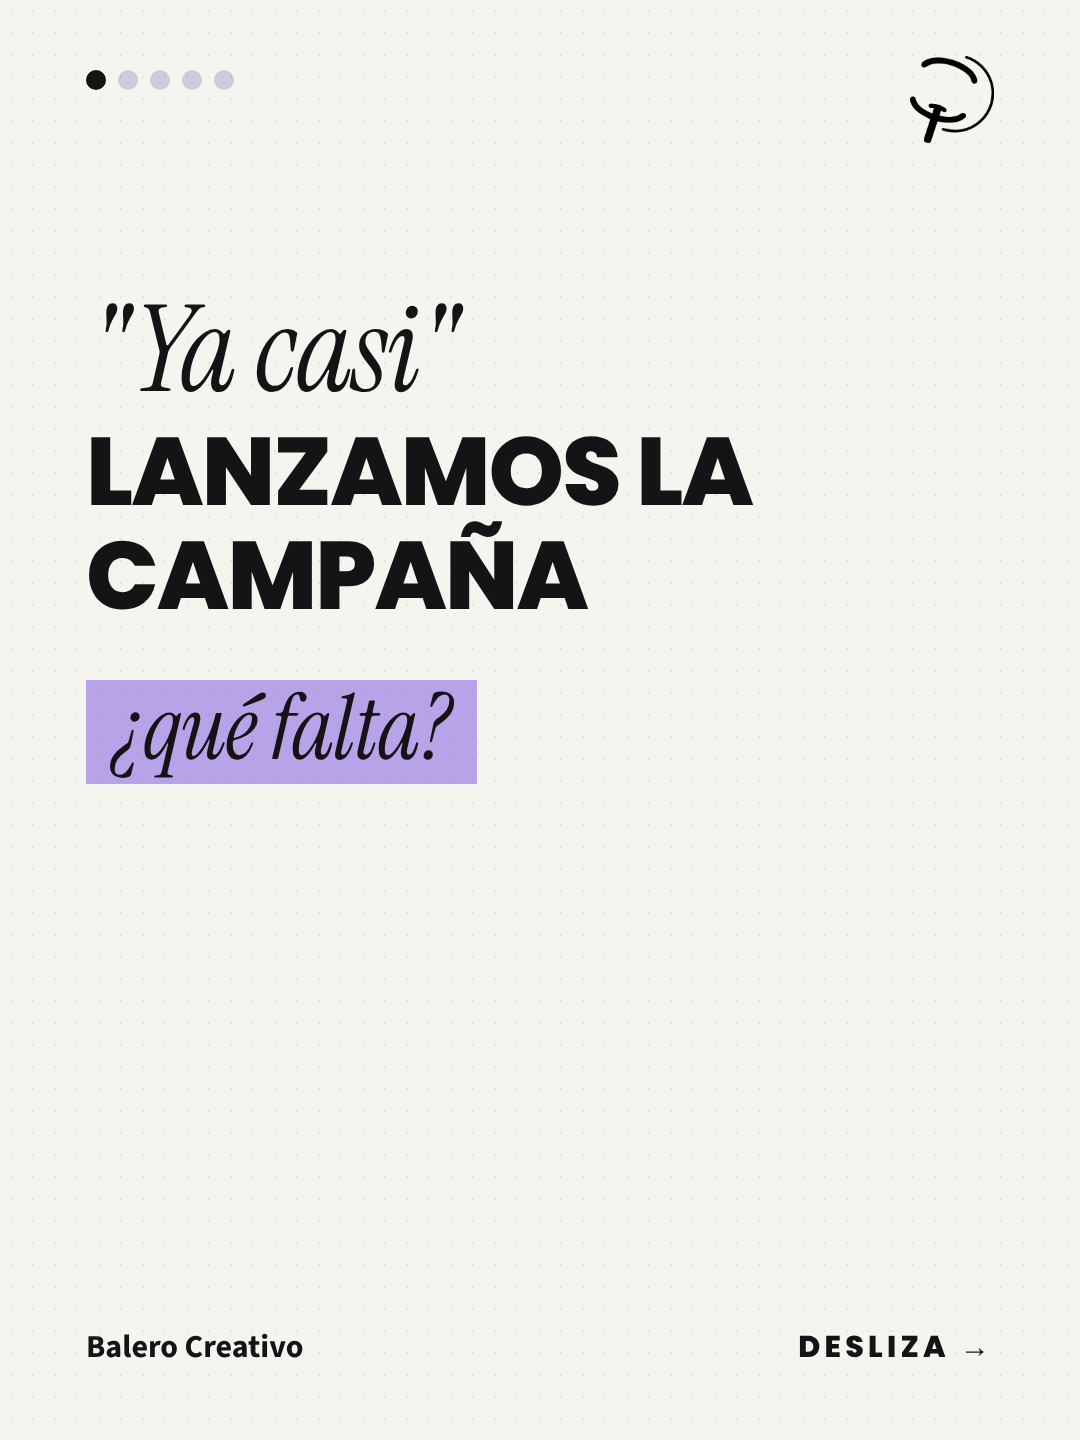
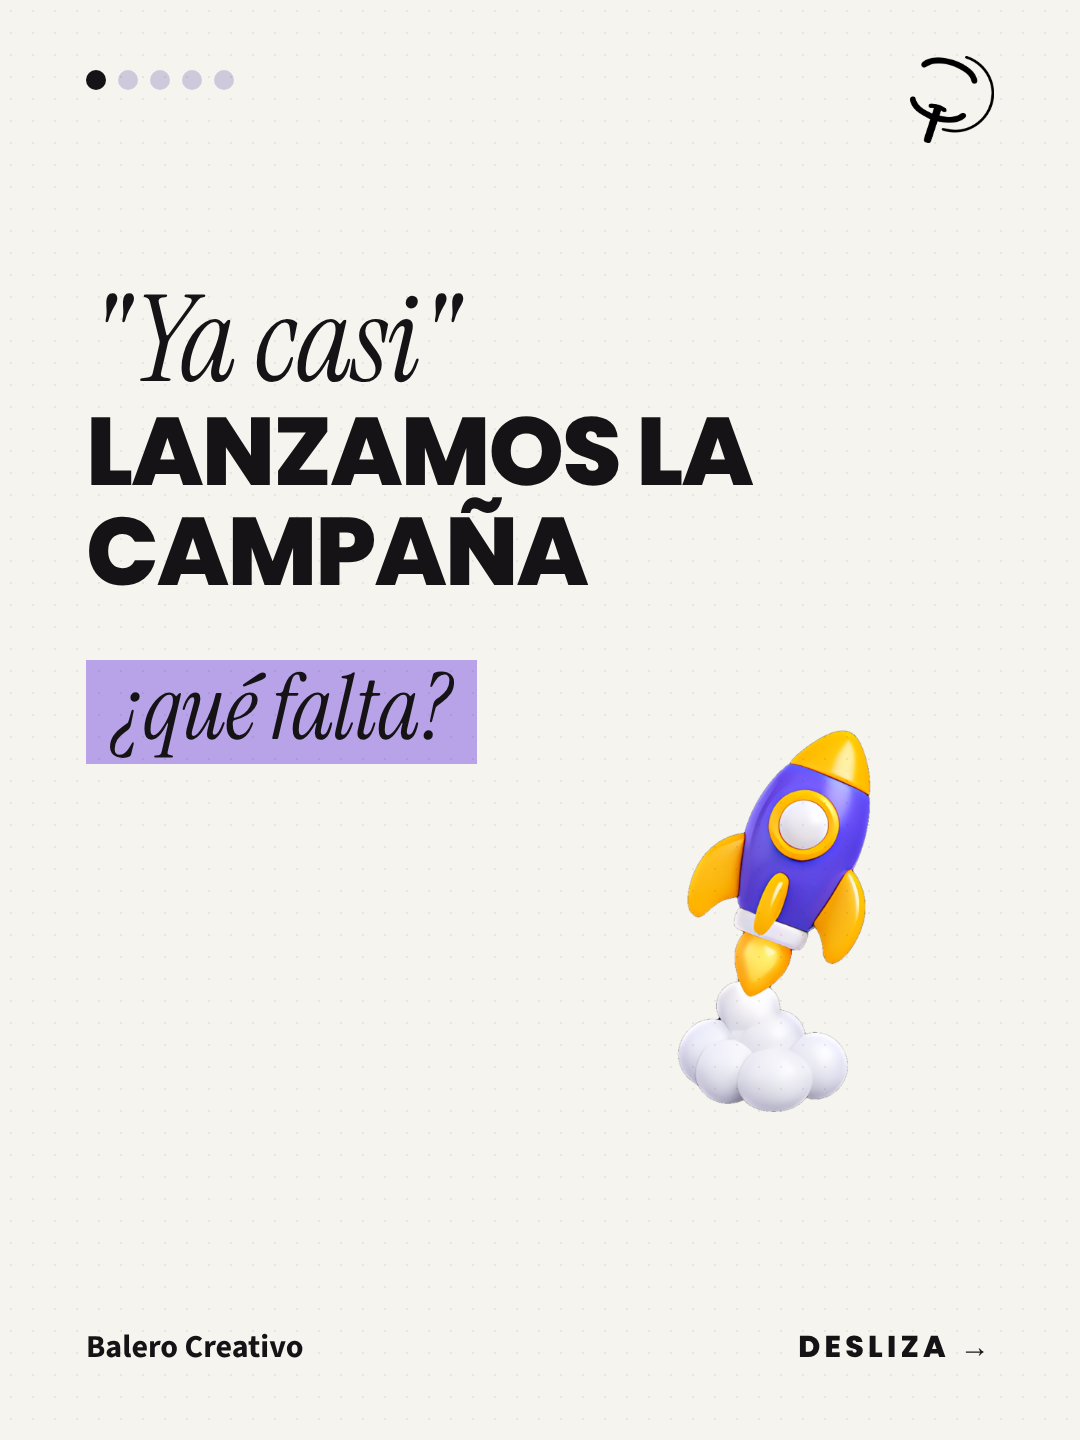
Carrusel de humor: ilustraciones 3D (cohete, engranes, monedas, cronómetro, escudo) sin encimados
Claude-Session: https://claude.ai/code/session_01Bq7ZC7FDz5LcdZBgNXTuBm

Changed region(s): [[0.0611, 0.1875, 0.7028, 0.5625], [0.6111, 0.5, 0.825, 0.7812]]

diff --git a/clientes/balero/diseno/2026-11/estilo-editorial/semana/humor.html b/clientes/balero/diseno/2026-11/estilo-editorial/semana/humor.html
@@ -60,4 +60,4 @@ body{background:#888}
 .meter{position:absolute;left:86px;right:86px;background:#fff;border:4px solid #151316;border-radius:26px;box-shadow:10px 12px 0 #151316;overflow:hidden}
 
 .bigy{position:absolute;left:86px;font:800 330px/.9 Poppins;background:#FFD23F;padding:10px 30px 24px;letter-spacing:-.04em}
-</style></head><body><div class="s" id="s1"><div class="dots"><i style="background:#151316"></i><i style="background:#cfc9dc"></i><i style="background:#cfc9dc"></i><i style="background:#cfc9dc"></i><i style="background:#cfc9dc"></i></div><img class="logo" src="/home/user/balero/.claude/skills/balero-imagenes/assets/logo-balero.png"><div class="serif" style="position:absolute;left:86px;top:290px;font-size:120px;line-height:1">"Ya casi"</div><div class="big" style="top:420px;font-size:96px;line-height:1.08">LANZAMOS LA CAMPAÑA</div><div class="serif" style="position:absolute;left:86px;top:680px;font-size:90px;line-height:1"><span class="hl">¿qué falta?</span></div><div class="foot"><span>Balero Creativo</span></div><div style="position:absolute;right:86px;bottom:70px;font:800 30px Poppins;letter-spacing:.14em">DESLIZA →</div></div><div class="s" id="s2"><div class="dots"><i style="background:#cfc9dc"></i><i style="background:#151316"></i><i style="background:#cfc9dc"></i><i style="background:#cfc9dc"></i><i style="background:#cfc9dc"></i></div><img class="logo" src="/home/user/balero/.claude/skills/balero-imagenes/assets/logo-balero.png"><div class="chip">FRASE 1</div><div class="t" style="top:290px;font-size:100px">"Solo falta<br>el píxel."</div><div class="body" style="top:560px;width:880px">Lo que suele faltar no es un anuncio más: es saber qué vas a medir.</div><div class="stat" style="display:flex;flex-direction:column;justify-content:center;left:86px;top:800px;width:908px;height:260px;background:#fff"><b style="font-size:96px">Píxel</b><span>todavía sin instalar</span></div><div class="foot"><span>Balero Creativo</span></div></div><div class="s" id="s3"><div class="dots"><i style="background:#cfc9dc"></i><i style="background:#cfc9dc"></i><i style="background:#151316"></i><i style="background:#cfc9dc"></i><i style="background:#cfc9dc"></i></div><img class="logo" src="/home/user/balero/.claude/skills/balero-imagenes/assets/logo-balero.png"><div class="chip">FRASE 2</div><div class="t" style="top:290px;font-size:96px">"Ponle más<br>presupuesto."</div><div class="body" style="top:560px;width:880px">Más dinero sin medir solo acelera el gasto.</div><div class="cmp bad" style="display:flex;align-items:center;top:800px;height:200px"><div class="m">✗</div><div><small>SIN MEDIR</small>Más dinero, mismas dudas</div></div><div class="cmp good" style="display:flex;align-items:center;top:1030px;height:200px"><div class="m">✓</div><div><small>MEDIDO</small>Sabes cuánto te queda por venta</div></div><div class="foot"><span>Balero Creativo</span></div></div><div class="s" id="s4"><div class="dots"><i style="background:#cfc9dc"></i><i style="background:#cfc9dc"></i><i style="background:#cfc9dc"></i><i style="background:#151316"></i><i style="background:#cfc9dc"></i></div><img class="logo" src="/home/user/balero/.claude/skills/balero-imagenes/assets/logo-balero.png"><div class="chip">FRASE 3</div><div class="t" style="top:290px;font-size:100px">"Mañana lo<br>revisamos."</div><div class="body" style="top:560px;width:880px">Mañana es lo mismo que hoy si no hay un número que revisar.</div><div class="stat" style="display:flex;flex-direction:column;justify-content:center;left:86px;top:800px;width:908px;height:260px;background:#fff"><b style="font-size:96px">Hoy</b><span>es el día de medir</span></div><div class="serif" style="position:absolute;left:86px;top:1150px;font-size:64px;line-height:1">Revisa antes de lanzar.</div><div class="foot"><span>Balero Creativo</span></div></div><div class="s" id="s5"><div class="dots"><i style="background:#cfc9dc"></i><i style="background:#cfc9dc"></i><i style="background:#cfc9dc"></i><i style="background:#cfc9dc"></i><i style="background:#151316"></i></div><img class="logo" src="/home/user/balero/.claude/skills/balero-imagenes/assets/logo-balero.png"><div class="serif" style="position:absolute;left:86px;top:280px;font-size:96px;line-height:1">Las campañas se</div><div class="big" style="top:400px;font-size:100px;line-height:1.08">MIDEN ANTES</div><div class="serif" style="position:absolute;left:86px;top:560px;font-size:96px;line-height:1"><span class="hl">de lanzarse.</span></div><div class="tape" style="top:800px;font-family:Poppins;font-weight:800;font-size:36px">Diagnóstico gratis de 15 minutos</div><div class="arrow" style="top:800px;transform:translateY(22px)">→</div><div class="body" style="top:1000px;width:880px">Escríbenos por mensaje directo.</div><div class="foot"><span>Balero Creativo</span></div></div></body></html>
+</style></head><body><div class="s" id="s1"><div class="dots"><i style="background:#151316"></i><i style="background:#cfc9dc"></i><i style="background:#cfc9dc"></i><i style="background:#cfc9dc"></i><i style="background:#cfc9dc"></i></div><img class="logo" src="/home/user/balero/.claude/skills/balero-imagenes/assets/logo-balero.png"><div class="serif" style="position:absolute;left:86px;top:280px;font-size:120px;line-height:1">"Ya casi"</div><div class="big" style="top:400px;font-size:96px;line-height:1.08">LANZAMOS LA</div><div class="big" style="top:500px;font-size:96px;line-height:1.08">CAMPAÑA</div><div class="serif" style="position:absolute;left:86px;top:660px;font-size:90px;line-height:1"><span class="hl">¿qué falta?</span></div><img src="/home/user/balero/.claude/skills/balero-imagenes/assets/ilustraciones-nuevas/cohete-cut.png" style="position:absolute;left:560px;top:700px;width:440px"><div class="foot"><span>Balero Creativo</span></div><div style="position:absolute;right:86px;bottom:70px;font:800 30px Poppins;letter-spacing:.14em">DESLIZA →</div></div><div class="s" id="s2"><div class="dots"><i style="background:#cfc9dc"></i><i style="background:#151316"></i><i style="background:#cfc9dc"></i><i style="background:#cfc9dc"></i><i style="background:#cfc9dc"></i></div><img class="logo" src="/home/user/balero/.claude/skills/balero-imagenes/assets/logo-balero.png"><div class="chip">FRASE 1</div><div class="t" style="top:290px;font-size:100px">"Solo falta<br>el píxel."</div><div class="body" style="top:560px;width:880px">Lo que suele faltar no es un anuncio más: es saber qué vas a medir.</div><img src="/home/user/balero/.claude/skills/balero-imagenes/assets/ilustraciones-nuevas/engranes-cut.png" style="position:absolute;left:430px;top:760px;width:520px"><div class="serif" style="position:absolute;left:86px;top:1220px;font-size:60px;line-height:1">Configúralo antes.</div><div class="foot"><span>Balero Creativo</span></div></div><div class="s" id="s3"><div class="dots"><i style="background:#cfc9dc"></i><i style="background:#cfc9dc"></i><i style="background:#151316"></i><i style="background:#cfc9dc"></i><i style="background:#cfc9dc"></i></div><img class="logo" src="/home/user/balero/.claude/skills/balero-imagenes/assets/logo-balero.png"><div class="chip">FRASE 2</div><div class="t" style="top:290px;font-size:96px">"Ponle más<br>presupuesto."</div><div class="body" style="top:560px;width:880px">Más dinero sin medir solo acelera el gasto.</div><img src="/home/user/balero/.claude/skills/balero-imagenes/assets/ilustraciones-nuevas/cobro-cut.png" style="position:absolute;left:806px;top:590px;width:170px"><div class="cmp bad" style="display:flex;align-items:center;top:800px;height:200px"><div class="m">✗</div><div><small>SIN MEDIR</small>Más dinero, mismas dudas</div></div><div class="cmp good" style="display:flex;align-items:center;top:1030px;height:200px"><div class="m">✓</div><div><small>MEDIDO</small>Sabes cuánto te queda por venta</div></div><div class="foot"><span>Balero Creativo</span></div></div><div class="s" id="s4"><div class="dots"><i style="background:#cfc9dc"></i><i style="background:#cfc9dc"></i><i style="background:#cfc9dc"></i><i style="background:#151316"></i><i style="background:#cfc9dc"></i></div><img class="logo" src="/home/user/balero/.claude/skills/balero-imagenes/assets/logo-balero.png"><div class="chip">FRASE 3</div><div class="t" style="top:290px;font-size:100px">"Mañana lo<br>revisamos."</div><div class="body" style="top:560px;width:880px">Mañana es lo mismo que hoy si no hay un número que revisar.</div><img src="/home/user/balero/.claude/skills/balero-imagenes/assets/ilustraciones-nuevas/cronometro-cut.png" style="position:absolute;left:470px;top:740px;width:400px"><div class="serif" style="position:absolute;left:86px;top:1220px;font-size:60px;line-height:1">Revisa antes de lanzar.</div><div class="foot"><span>Balero Creativo</span></div></div><div class="s" id="s5"><div class="dots"><i style="background:#cfc9dc"></i><i style="background:#cfc9dc"></i><i style="background:#cfc9dc"></i><i style="background:#cfc9dc"></i><i style="background:#151316"></i></div><img class="logo" src="/home/user/balero/.claude/skills/balero-imagenes/assets/logo-balero.png"><div class="serif" style="position:absolute;left:86px;top:230px;font-size:96px;line-height:1">Las campañas se</div><div class="big" style="top:350px;font-size:100px;line-height:1.08">MIDEN ANTES</div><div class="serif" style="position:absolute;left:86px;top:510px;font-size:96px;line-height:1"><span class="hl">de lanzarse.</span></div><div class="tape" style="top:740px;font-family:Poppins;font-weight:800;font-size:36px">Diagnóstico gratis de 15 minutos</div><div class="arrow" style="top:740px;transform:translateY(22px)">→</div><div class="body" style="top:930px;width:880px">Escríbenos por mensaje directo.</div><img src="/home/user/balero/.claude/skills/balero-imagenes/assets/ilustraciones-nuevas/escudo-cut.png" style="position:absolute;left:760px;top:930px;width:240px"><div class="foot"><span>Balero Creativo</span></div><div style="position:absolute;right:86px;bottom:70px;font:800 30px Poppins;letter-spacing:.14em">DESLIZA →</div></div></body></html>

diff --git a/clientes/balero/diseno/2026-11/semana-09/humor-ig/humor.html b/clientes/balero/diseno/2026-11/semana-09/humor-ig/humor.html
@@ -60,4 +60,4 @@ body{background:#888}
 .meter{position:absolute;left:86px;right:86px;background:#fff;border:4px solid #151316;border-radius:26px;box-shadow:10px 12px 0 #151316;overflow:hidden}
 
 .bigy{position:absolute;left:86px;font:800 330px/.9 Poppins;background:#FFD23F;padding:10px 30px 24px;letter-spacing:-.04em}
-</style></head><body><div class="s" id="s1"><div class="dots"><i style="background:#151316"></i><i style="background:#cfc9dc"></i><i style="background:#cfc9dc"></i><i style="background:#cfc9dc"></i><i style="background:#cfc9dc"></i></div><img class="logo" src="/home/user/balero/.claude/skills/balero-imagenes/assets/logo-balero.png"><div class="serif" style="position:absolute;left:86px;top:290px;font-size:120px;line-height:1">"Ya casi"</div><div class="big" style="top:420px;font-size:96px;line-height:1.08">LANZAMOS LA CAMPAÑA</div><div class="serif" style="position:absolute;left:86px;top:680px;font-size:90px;line-height:1"><span class="hl">¿qué falta?</span></div><div class="foot"><span>Balero Creativo</span></div><div style="position:absolute;right:86px;bottom:70px;font:800 30px Poppins;letter-spacing:.14em">DESLIZA →</div></div><div class="s" id="s2"><div class="dots"><i style="background:#cfc9dc"></i><i style="background:#151316"></i><i style="background:#cfc9dc"></i><i style="background:#cfc9dc"></i><i style="background:#cfc9dc"></i></div><img class="logo" src="/home/user/balero/.claude/skills/balero-imagenes/assets/logo-balero.png"><div class="chip">FRASE 1</div><div class="t" style="top:290px;font-size:100px">"Solo falta<br>el píxel."</div><div class="body" style="top:560px;width:880px">Lo que suele faltar no es un anuncio más: es saber qué vas a medir.</div><div class="stat" style="display:flex;flex-direction:column;justify-content:center;left:86px;top:800px;width:908px;height:260px;background:#fff"><b style="font-size:96px">Píxel</b><span>todavía sin instalar</span></div><div class="foot"><span>Balero Creativo</span></div></div><div class="s" id="s3"><div class="dots"><i style="background:#cfc9dc"></i><i style="background:#cfc9dc"></i><i style="background:#151316"></i><i style="background:#cfc9dc"></i><i style="background:#cfc9dc"></i></div><img class="logo" src="/home/user/balero/.claude/skills/balero-imagenes/assets/logo-balero.png"><div class="chip">FRASE 2</div><div class="t" style="top:290px;font-size:96px">"Ponle más<br>presupuesto."</div><div class="body" style="top:560px;width:880px">Más dinero sin medir solo acelera el gasto.</div><div class="cmp bad" style="display:flex;align-items:center;top:800px;height:200px"><div class="m">✗</div><div><small>SIN MEDIR</small>Más dinero, mismas dudas</div></div><div class="cmp good" style="display:flex;align-items:center;top:1030px;height:200px"><div class="m">✓</div><div><small>MEDIDO</small>Sabes cuánto te queda por venta</div></div><div class="foot"><span>Balero Creativo</span></div></div><div class="s" id="s4"><div class="dots"><i style="background:#cfc9dc"></i><i style="background:#cfc9dc"></i><i style="background:#cfc9dc"></i><i style="background:#151316"></i><i style="background:#cfc9dc"></i></div><img class="logo" src="/home/user/balero/.claude/skills/balero-imagenes/assets/logo-balero.png"><div class="chip">FRASE 3</div><div class="t" style="top:290px;font-size:100px">"Mañana lo<br>revisamos."</div><div class="body" style="top:560px;width:880px">Mañana es lo mismo que hoy si no hay un número que revisar.</div><div class="stat" style="display:flex;flex-direction:column;justify-content:center;left:86px;top:800px;width:908px;height:260px;background:#fff"><b style="font-size:96px">Hoy</b><span>es el día de medir</span></div><div class="serif" style="position:absolute;left:86px;top:1150px;font-size:64px;line-height:1">Revisa antes de lanzar.</div><div class="foot"><span>Balero Creativo</span></div></div><div class="s" id="s5"><div class="dots"><i style="background:#cfc9dc"></i><i style="background:#cfc9dc"></i><i style="background:#cfc9dc"></i><i style="background:#cfc9dc"></i><i style="background:#151316"></i></div><img class="logo" src="/home/user/balero/.claude/skills/balero-imagenes/assets/logo-balero.png"><div class="serif" style="position:absolute;left:86px;top:280px;font-size:96px;line-height:1">Las campañas se</div><div class="big" style="top:400px;font-size:100px;line-height:1.08">MIDEN ANTES</div><div class="serif" style="position:absolute;left:86px;top:560px;font-size:96px;line-height:1"><span class="hl">de lanzarse.</span></div><div class="tape" style="top:800px;font-family:Poppins;font-weight:800;font-size:36px">Diagnóstico gratis de 15 minutos</div><div class="arrow" style="top:800px;transform:translateY(22px)">→</div><div class="body" style="top:1000px;width:880px">Escríbenos por mensaje directo.</div><div class="foot"><span>Balero Creativo</span></div></div></body></html>
+</style></head><body><div class="s" id="s1"><div class="dots"><i style="background:#151316"></i><i style="background:#cfc9dc"></i><i style="background:#cfc9dc"></i><i style="background:#cfc9dc"></i><i style="background:#cfc9dc"></i></div><img class="logo" src="/home/user/balero/.claude/skills/balero-imagenes/assets/logo-balero.png"><div class="serif" style="position:absolute;left:86px;top:280px;font-size:120px;line-height:1">"Ya casi"</div><div class="big" style="top:400px;font-size:96px;line-height:1.08">LANZAMOS LA</div><div class="big" style="top:500px;font-size:96px;line-height:1.08">CAMPAÑA</div><div class="serif" style="position:absolute;left:86px;top:660px;font-size:90px;line-height:1"><span class="hl">¿qué falta?</span></div><img src="/home/user/balero/.claude/skills/balero-imagenes/assets/ilustraciones-nuevas/cohete-cut.png" style="position:absolute;left:560px;top:700px;width:440px"><div class="foot"><span>Balero Creativo</span></div><div style="position:absolute;right:86px;bottom:70px;font:800 30px Poppins;letter-spacing:.14em">DESLIZA →</div></div><div class="s" id="s2"><div class="dots"><i style="background:#cfc9dc"></i><i style="background:#151316"></i><i style="background:#cfc9dc"></i><i style="background:#cfc9dc"></i><i style="background:#cfc9dc"></i></div><img class="logo" src="/home/user/balero/.claude/skills/balero-imagenes/assets/logo-balero.png"><div class="chip">FRASE 1</div><div class="t" style="top:290px;font-size:100px">"Solo falta<br>el píxel."</div><div class="body" style="top:560px;width:880px">Lo que suele faltar no es un anuncio más: es saber qué vas a medir.</div><img src="/home/user/balero/.claude/skills/balero-imagenes/assets/ilustraciones-nuevas/engranes-cut.png" style="position:absolute;left:430px;top:760px;width:520px"><div class="serif" style="position:absolute;left:86px;top:1220px;font-size:60px;line-height:1">Configúralo antes.</div><div class="foot"><span>Balero Creativo</span></div></div><div class="s" id="s3"><div class="dots"><i style="background:#cfc9dc"></i><i style="background:#cfc9dc"></i><i style="background:#151316"></i><i style="background:#cfc9dc"></i><i style="background:#cfc9dc"></i></div><img class="logo" src="/home/user/balero/.claude/skills/balero-imagenes/assets/logo-balero.png"><div class="chip">FRASE 2</div><div class="t" style="top:290px;font-size:96px">"Ponle más<br>presupuesto."</div><div class="body" style="top:560px;width:880px">Más dinero sin medir solo acelera el gasto.</div><img src="/home/user/balero/.claude/skills/balero-imagenes/assets/ilustraciones-nuevas/cobro-cut.png" style="position:absolute;left:806px;top:590px;width:170px"><div class="cmp bad" style="display:flex;align-items:center;top:800px;height:200px"><div class="m">✗</div><div><small>SIN MEDIR</small>Más dinero, mismas dudas</div></div><div class="cmp good" style="display:flex;align-items:center;top:1030px;height:200px"><div class="m">✓</div><div><small>MEDIDO</small>Sabes cuánto te queda por venta</div></div><div class="foot"><span>Balero Creativo</span></div></div><div class="s" id="s4"><div class="dots"><i style="background:#cfc9dc"></i><i style="background:#cfc9dc"></i><i style="background:#cfc9dc"></i><i style="background:#151316"></i><i style="background:#cfc9dc"></i></div><img class="logo" src="/home/user/balero/.claude/skills/balero-imagenes/assets/logo-balero.png"><div class="chip">FRASE 3</div><div class="t" style="top:290px;font-size:100px">"Mañana lo<br>revisamos."</div><div class="body" style="top:560px;width:880px">Mañana es lo mismo que hoy si no hay un número que revisar.</div><img src="/home/user/balero/.claude/skills/balero-imagenes/assets/ilustraciones-nuevas/cronometro-cut.png" style="position:absolute;left:470px;top:740px;width:400px"><div class="serif" style="position:absolute;left:86px;top:1220px;font-size:60px;line-height:1">Revisa antes de lanzar.</div><div class="foot"><span>Balero Creativo</span></div></div><div class="s" id="s5"><div class="dots"><i style="background:#cfc9dc"></i><i style="background:#cfc9dc"></i><i style="background:#cfc9dc"></i><i style="background:#cfc9dc"></i><i style="background:#151316"></i></div><img class="logo" src="/home/user/balero/.claude/skills/balero-imagenes/assets/logo-balero.png"><div class="serif" style="position:absolute;left:86px;top:230px;font-size:96px;line-height:1">Las campañas se</div><div class="big" style="top:350px;font-size:100px;line-height:1.08">MIDEN ANTES</div><div class="serif" style="position:absolute;left:86px;top:510px;font-size:96px;line-height:1"><span class="hl">de lanzarse.</span></div><div class="tape" style="top:740px;font-family:Poppins;font-weight:800;font-size:36px">Diagnóstico gratis de 15 minutos</div><div class="arrow" style="top:740px;transform:translateY(22px)">→</div><div class="body" style="top:930px;width:880px">Escríbenos por mensaje directo.</div><img src="/home/user/balero/.claude/skills/balero-imagenes/assets/ilustraciones-nuevas/escudo-cut.png" style="position:absolute;left:760px;top:930px;width:240px"><div class="foot"><span>Balero Creativo</span></div><div style="position:absolute;right:86px;bottom:70px;font:800 30px Poppins;letter-spacing:.14em">DESLIZA →</div></div></body></html>

diff --git a/clientes/balero/diseno/2026-11/estilo-editorial/semana/defs.py b/clientes/balero/diseno/2026-11/estilo-editorial/semana/defs.py
@@ -165,19 +165,21 @@ roasig=[
    statc(86,820,908,230,'Tu margen','lo que te queda después de costos y anuncios',fs=80)+serif('Calcula tu margen antes de subir el presupuesto.',1110,56), F),
  (serif('Tú decides',280,96)+big('CUÁNTO TE QUEDA',400,100)+serif('<span class="hl">por venta.</span>',560,96)+tape('Diagnóstico gratis de 15 minutos',800)+body('Escríbenos por mensaje directo.',1000), F),
 ]
-# ---------- HUMOR (guion aprobado 10 nov) ----------
+# ---------- HUMOR (guion aprobado 10 nov, con ilustraciones) ----------
 def _cen2(h): return h.replace('style="','style="display:flex;flex-direction:column;justify-content:center;',1)
 def statH(*a,**k): return _cen2(stat(*a,**k))
 def cmpH(top,cls,sym,label,txt,h=230): return cmp(top,cls,sym,label,txt,h).replace('style="top','style="display:flex;align-items:center;top',1)
+ILU='/home/user/balero/.claude/skills/balero-imagenes/assets/ilustraciones-nuevas/'
+def ilu(n,x,y,w): return f'<img src="{ILU}{n}-cut.png" style="position:absolute;left:{x}px;top:{y}px;width:{w}px">'
 humor=[
- (serif('"Ya casi"',290,120)+big('LANZAMOS LA CAMPAÑA',420,96)+serif('<span class="hl">¿qué falta?</span>',680,90), FD),
+ (serif('"Ya casi"',280,120)+big('LANZAMOS LA',400,96)+big('CAMPAÑA',500,96)+serif('<span class="hl">¿qué falta?</span>',660,90)+ilu('cohete',560,700,440), FD),
  (chip('FRASE 1')+title('"Solo falta','el píxel."',100)+body('Lo que suele faltar no es un anuncio más: es saber qué vas a medir.',560)+
-   statH(86,800,908,260,'Píxel','todavía sin instalar',fs=96), F),
- (chip('FRASE 2')+title('"Ponle más','presupuesto."',96)+body('Más dinero sin medir solo acelera el gasto.',560)+
+   ilu('engranes',430,760,520)+serif('Configúralo antes.',1220,60), F),
+ (chip('FRASE 2')+title('"Ponle más','presupuesto."',96)+body('Más dinero sin medir solo acelera el gasto.',560)+ilu('cobro',806,590,170)+
    cmpH(800,'bad','✗','SIN MEDIR','Más dinero, mismas dudas',200)+cmpH(1030,'good','✓','MEDIDO','Sabes cuánto te queda por venta',200), F),
  (chip('FRASE 3')+title('"Mañana lo','revisamos."',100)+body('Mañana es lo mismo que hoy si no hay un número que revisar.',560)+
-   statH(86,800,908,260,'Hoy','es el día de medir',fs=96)+serif('Revisa antes de lanzar.',1150,64), F),
- (serif('Las campañas se',280,96)+big('MIDEN ANTES',400,100)+serif('<span class="hl">de lanzarse.</span>',560,96)+tape('Diagnóstico gratis de 15 minutos',800)+body('Escríbenos por mensaje directo.',1000), F),
+   ilu('cronometro',470,740,400)+serif('Revisa antes de lanzar.',1220,60), F),
+ (serif('Las campañas se',230,96)+big('MIDEN ANTES',350,100)+serif('<span class="hl">de lanzarse.</span>',510,96)+tape('Diagnóstico gratis de 15 minutos',740)+body('Escríbenos por mensaje directo.',930)+ilu('escudo',760,930,240), FD),
 ]
 ALL={'roas':roas,'stanford':stan,'workday':work,'trigger':trig,'chatgpt':chat,'enlaces':enl,'crm':crm,'muse':muse,'roasig':roasig,'humor':humor}
 if __name__=='__main__':
